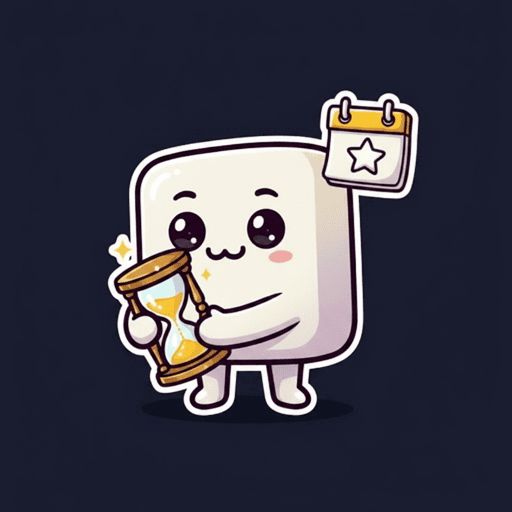
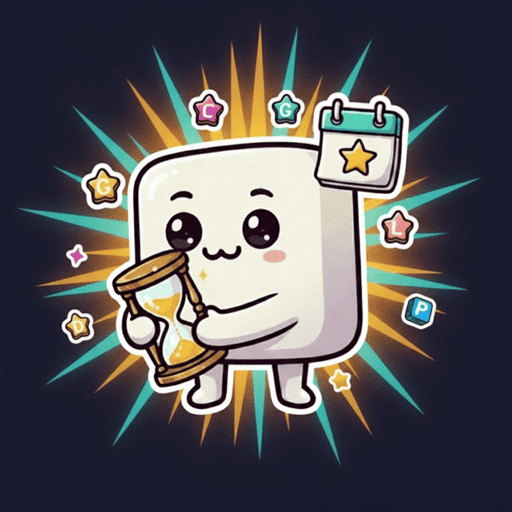
feat(landing): recolor blast/arena/daily cubes (MP=2 fighters), colored badges + blur LQIP; drop blast v1/v2 cubes
- Regen blast (vivid explosion), arena (two mascots dueling: pink vs cyan
  knight, crossed glowing swords), daily (gold sunburst + glowing hourglass)
  cube mascots — far more colorful than the washed-out white originals.
- Tile-level color: NEW badges now wear the per-mode hue (was navy); ADMIN
  stays quiet navy. Daily card black shadow -> gold colored edge (it was the
  one tile reading "missing color").
- Image perf: shared 122-byte navy blur LQIP (CUBE_BLUR_DATA_URL) as
  placeholder="blur" on all cubes + daily; priority preload on the arena
  anchor only (above-fold), rest stay lazy.
- Remove admin-only blastClassic (V1) + blastV2 cube discovery tiles from the
  landing bento: modeMeta entries, type/FEATURED/admin-gate/render-cases/
  SP_MODES, gates + modeMeta tests, i18n x5, 2 PNG assets, orphan WordfallLogo
  import. Game route/engine /blast/v2 untouched — only the landing cube dropped.

tsc0 lint0; 49 landing/daily + 61 gates/modeMeta tests green; next build 185/185.

Changed region(s): [[0.0312, 0.0625, 0.9375, 0.9062], [0.6562, 0.875, 0.6875, 0.9062], [0.2812, 0.0938, 0.3125, 0.125]]

diff --git a/fe-next/components/landing/LandingChallengeCards.tsx b/fe-next/components/landing/LandingChallengeCards.tsx
@@ -3,7 +3,6 @@
 import { useState, useEffect } from 'react';
 import { Swords, BookOpen, Map, Bomb, Link2, Brain, Sparkles, ChevronDown, Layers, Building2, Hammer, Vault, PartyPopper, FlaskConical, ScrollText, Gavel, Grid3x3 } from 'lucide-react';
 import ModeCard from './ModeCard';
-import { WordfallLogo } from '@/components/blast/v2/WordfallLogo';
 import DailyChallengeBanner from '@/components/daily/DailyChallengeBanner';
 import DailyChallengeCube from '@/components/daily/DailyChallengeCube';
 import { shouldShowGuidance } from '@/utils/contextualGuidanceStorage';
@@ -60,8 +59,6 @@ type LandingCardKey =
   | 'brainGym'
   | 'wordCraft'
   | 'wordTower'
-  | 'blastClassic'
-  | 'blastV2'
   | 'wordForge'
   | 'wordVault'
   | 'party'
@@ -80,7 +77,7 @@ const DEFAULT_ORDER: LandingCardKey[] = ['daily', 'arena', 'blast', 'practice', 
  */
 const FEATURED_MODES = new Set<LandingCardKey>([
   'daily', 'arena', 'blast', 'practice',
-  'connections', 'brainGym', 'wordCraft', 'wordTower', 'blastClassic', 'blastV2',
+  'connections', 'brainGym', 'wordCraft', 'wordTower',
   'wordForge', 'wordVault',
   'party', 'wordAlchemy', 'shiritori', 'sealedBid', 'crossword',
 ]);
@@ -201,12 +198,6 @@ export function LandingChallengeCards({
     // WordCraft is public — territory surfaces on the hub for everyone.
     if (!next.includes('wordCraft')) next.push('wordCraft');
     if (isAdmin && !next.includes('wordTower')) next.push('wordTower');
-    // Blast Classic (legacy V1 engine) — admin-only card so both V1 + V2 (the
-    // public 'blast' card) are reachable. /blast?v2=off opts into the V1 engine.
-    if (isAdmin && !next.includes('blastClassic')) next.push('blastClassic');
-    // Blast V2 (new SP engine) — admin-only card, its own standalone route.
-    // Public 'blast' stays V1; /blast/v2 is a separate mode, not a toggle.
-    if (isAdmin && !next.includes('blastV2')) next.push('blastV2');
     // Admin-only dev previews of modes not yet surfaced on the public hub.
     if (isAdmin && !next.includes('wordForge')) next.push('wordForge');
     if (isAdmin && !next.includes('wordVault')) next.push('wordVault');
@@ -311,36 +302,6 @@ export function LandingChallengeCards({
               variant="orange"
               badge="NEW"
               onClick={() => { trackModeSelected('blast', 'home'); trackLandingCtaClick('mode_card', { mode: 'blast', variant: 'orange' }); }}
-            />
-          </div>
-        );
-
-      case 'blastClassic':
-        return (
-          <div key="blastClassic" className="w-full h-full animate-[fadeInUp_0.4s_ease-out_both]" style={style}>
-            <ModeCard
-              title={t('landing.blastClassic')}
-              description={t('landing.blastClassicDesc')}
-              href={`/${language}/blast?v2=off`}
-              icon={<Bomb className="w-6 h-6" />}
-              variant="orange"
-              badge="V1"
-              onClick={() => { trackLandingCtaClick('mode_card', { mode: 'blastClassic', variant: 'orange' }); }}
-            />
-          </div>
-        );
-
-      case 'blastV2':
-        return (
-          <div key="blastV2" className="w-full h-full animate-[fadeInUp_0.4s_ease-out_both]" style={style}>
-            <ModeCard
-              title={t('landing.blastV2')}
-              description={t('landing.blastV2Desc')}
-              href={`/${language}/blast/v2`}
-              icon={<WordfallLogo size={26} color="#fff" />}
-              variant="purple"
-              badge="NEW"
-              onClick={() => { trackLandingCtaClick('mode_card', { mode: 'blastV2', variant: 'purple' }); }}
             />
           </div>
         );
@@ -537,7 +498,7 @@ export function LandingChallengeCards({
   };
 
   const MP_MODES = new Set<LandingCardKey>(['arena']);
-  const SP_MODES = new Set<LandingCardKey>(['practice', 'blast', 'adventure', 'connections', 'brainGym', 'wordCraft', 'wordTower', 'blastClassic', 'blastV2', 'wordForge', 'wordVault', 'party', 'wordAlchemy', 'shiritori', 'sealedBid', 'crossword']);
+  const SP_MODES = new Set<LandingCardKey>(['practice', 'blast', 'adventure', 'connections', 'brainGym', 'wordCraft', 'wordTower', 'wordForge', 'wordVault', 'party', 'wordAlchemy', 'shiritori', 'sealedBid', 'crossword']);
   // Newcomer-essential modes — always visible above the fold. Everything else
   // collapses into a "More Game Modes" expander to reduce choice paralysis
   // without removing the cards from the DOM (preserves SEO + AI-crawler links).

diff --git a/fe-next/components/landing/__tests__/LandingChallengeCards.gates.test.tsx b/fe-next/components/landing/__tests__/LandingChallengeCards.gates.test.tsx
@@ -225,45 +225,9 @@ describe('LandingChallengeCards — Shiritori admin dev-preview gate', () => {
   });
 });
 
-describe('LandingChallengeCards — Blast Classic admin gate', () => {
-  it('does NOT render the Blast Classic card for a non-admin', () => {
-    mockIsAdmin.mockReturnValue(false);
-    mockGamesCompleted.mockReturnValue(10);
-    render(<LandingChallengeCards {...baseProps} />);
-    expect(screen.queryByTestId('mode-landing.blastClassic')).toBeNull();
-  });
-
-  it('renders the Blast Classic V1 card for an admin with ?v2=off href', () => {
-    mockIsAdmin.mockReturnValue(true);
-    mockGamesCompleted.mockReturnValue(10);
-    render(<LandingChallengeCards {...baseProps} />);
-    const card = screen.getByTestId('mode-landing.blastClassic');
-    expect(card).toBeInTheDocument();
-    expect(card.getAttribute('data-href')).toBe('/en/blast?v2=off');
-  });
-});
-
-describe('LandingChallengeCards — Blast V2 admin gate', () => {
-  it('does NOT render the Blast V2 card for a non-admin', () => {
-    mockIsAdmin.mockReturnValue(false);
-    mockGamesCompleted.mockReturnValue(10);
-    render(<LandingChallengeCards {...baseProps} />);
-    expect(screen.queryByTestId('mode-landing.blastV2')).toBeNull();
-  });
-
-  it('renders the Blast V2 card for an admin linking to the standalone /blast/v2 route', () => {
-    mockIsAdmin.mockReturnValue(true);
-    mockGamesCompleted.mockReturnValue(10);
-    render(<LandingChallengeCards {...baseProps} />);
-    const card = screen.getByTestId('mode-landing.blastV2');
-    expect(card).toBeInTheDocument();
-    // Separate mode, not a ?v2=on toggle on the V1 /blast page.
-    expect(card.getAttribute('data-href')).toBe('/en/blast/v2');
-  });
-});
 
 describe('LandingChallengeCards — full admin dev-preview roster', () => {
-  it('renders ALL 9 admin-gated dev preview cards for a post-newbie admin', () => {
+  it('renders ALL 7 admin-gated dev preview cards for a post-newbie admin', () => {
     mockIsAdmin.mockReturnValue(true);
     mockUserEmail.mockReturnValue('admin@example.com');
     // Past newbie + first-timer + newcomer-by-games gates → no collapse expander,
@@ -276,8 +240,6 @@ describe('LandingChallengeCards — full admin dev-preview roster', () => {
       // WordCraft consolidated to ONE public card; Cards/Gems are URL sub-modes
       // (gateWordCraftMode), not hub cards — so none appear in this admin roster.
       'mode-wordTower.cardTitle',          // Word Tower
-      'mode-landing.blastClassic',         // Blast Classic V1
-      'mode-landing.blastV2',              // Blast V2 (/blast/v2)
       'mode-landing.wordForgeMode',        // Word Forge
       'mode-landing.wordVaultMode',        // Word Vault
       'mode-landing.partyMode',            // Party Games
@@ -299,8 +261,6 @@ describe('LandingChallengeCards — full admin dev-preview roster', () => {
     render(<LandingChallengeCards {...baseProps} />);
     const adminOnly = [
       'mode-wordTower.cardTitle',
-      'mode-landing.blastClassic',
-      'mode-landing.blastV2',
       'mode-landing.wordForgeMode',
       'mode-landing.wordVaultMode',
       'mode-landing.partyMode',

diff --git a/fe-next/components/landing/LandingModeCubes.tsx b/fe-next/components/landing/LandingModeCubes.tsx
@@ -20,7 +20,7 @@ import Link from 'next/link';
 import { ArrowRight, ArrowLeft, Lock, ChevronDown, Sparkles } from 'lucide-react';
 import { cn } from '@/lib/utils';
 import { useLanguage } from '@/contexts/LanguageContext';
-import type { ModeCubeModel, ModeCubeVariant } from '@/lib/landing/modeMeta';
+import { CUBE_BLUR_DATA_URL, type ModeCubeModel, type ModeCubeVariant } from '@/lib/landing/modeMeta';
 
 interface VariantStyle {
   /** solid colour fill (anchor) */
@@ -51,9 +51,18 @@ const VARIANT: Record<ModeCubeVariant, VariantStyle> = {
   blue:   { fill: 'bg-blue-500',   ink: 'text-neo-white', chip: 'bg-blue-500',   chipInk: 'text-neo-white', restShadow: 'shadow-hard-blue',   shadow: 'group-hover:shadow-hard-blue',   ring: 'focus-visible:ring-blue-400' },
 };
 
-function Badge({ label }: { label: string }) {
+// Badge wears the mode colour (not navy) so every flagged cube pops a chip of
+// its own hue — a contained, on-brand splash of colour on the bento beyond the
+// art itself. ADMIN previews stay quiet navy so they don't shout over public modes.
+function Badge({ label, chip, chipInk }: { label: string; chip: string; chipInk: string }) {
+  const quiet = label.toUpperCase() === 'ADMIN';
   return (
-    <span className="absolute top-1.5 end-1.5 z-10 rounded-full border-2 border-black bg-neo-navy px-2 py-0.5 font-neo-display text-[0.6rem] font-black uppercase leading-none tracking-wide text-neo-white shadow-hard-sm">
+    <span
+      className={cn(
+        'absolute top-1.5 end-1.5 z-10 rounded-full border-2 border-black px-2 py-0.5 font-neo-display text-[0.6rem] font-black uppercase leading-none tracking-wide shadow-hard-sm',
+        quiet ? 'bg-neo-navy text-neo-white' : cn(chip, chipInk),
+      )}
+    >
       {label}
     </span>
   );
@@ -150,6 +159,12 @@ function Cube({ model, index, anchor = false, bigAnchor = true }: CubeProps) {
             src={model.genIcon as string}
             alt=""
             fill
+            // The anchor (arena) is above the fold → eager-preload it; the rest of
+            // the bento stays lazy. A shared navy LQIP blurs up seamlessly (same
+            // navy as the tile) so cubes never pop in from blank.
+            priority={anchor}
+            placeholder="blur"
+            blurDataURL={CUBE_BLUR_DATA_URL}
             sizes={anchor ? '(max-width: 768px) 100vw, 50vw' : '(max-width: 768px) 50vw, 25vw'}
             onError={() => setImgFailed(true)}
             className={cn(
@@ -177,7 +192,7 @@ function Cube({ model, index, anchor = false, bigAnchor = true }: CubeProps) {
         )}
       />
 
-      {model.badge && <Badge label={model.badge} />}
+      {model.badge && <Badge label={model.badge} chip={v.chip} chipInk={v.chipInk} />}
       {locked && <LockOverlay message={model.lockedMessage} />}
 
       {/* ---- content layer ---- */}

diff --git a/fe-next/components/daily/DailyChallengeCube.tsx b/fe-next/components/daily/DailyChallengeCube.tsx
@@ -8,6 +8,7 @@ import { cn } from '@/lib/utils';
 import { useLanguage } from '@/contexts/LanguageContext';
 import { trackLandingCtaClick } from '@/utils/growthTracking';
 import { useDailyChallengeStats, type PreloadedDailyStats } from '@/hooks/useDailyChallengeStats';
+import { CUBE_BLUR_DATA_URL } from '@/lib/landing/modeMeta';
 
 interface DailyChallengeCubeProps {
   /** Pre-loaded daily stats from the landing page to avoid a duplicate fetch. */
@@ -40,7 +41,11 @@ const DailyChallengeCube: React.FC<DailyChallengeCubeProps> = ({ preloadedStats 
       onClick={() => trackLandingCtaClick('daily_banner', { mode: 'daily', hasPlayed })}
       aria-label={`${t('daily.badge')} #${puzzleNumber}`}
       className={cn(
-        'cube-reveal group relative flex min-h-[112px] w-full items-stretch overflow-hidden rounded-neo border-neo-thick border-black bg-neo-navy shadow-hard transition-transform duration-150 sm:min-h-[132px]',
+        // Gold (neo-yellow) colour-coded edge AT REST — daily was the one tile
+        // with a plain black shadow, so it read as "missing colour". The gold edge
+        // (an allowed celebration accent for daily) gives it the same colour-coded
+        // signal the mode cubes carry, plus the warm sunburst mascot art.
+        'cube-reveal group relative flex min-h-[112px] w-full items-stretch overflow-hidden rounded-neo border-neo-thick border-black bg-neo-navy shadow-hard-yellow transition-transform duration-150 sm:min-h-[132px]',
         'hover:-translate-x-0.5 hover:-translate-y-0.5 hover:shadow-hard-lg',
         'focus-visible:-translate-x-0.5 focus-visible:-translate-y-0.5',
         'active:translate-x-0 active:translate-y-0 active:shadow-hard-pressed',
@@ -55,6 +60,8 @@ const DailyChallengeCube: React.FC<DailyChallengeCubeProps> = ({ preloadedStats 
           alt=""
           fill
           priority
+          placeholder="blur"
+          blurDataURL={CUBE_BLUR_DATA_URL}
           sizes="(max-width: 768px) 45vw, 180px"
           className="object-contain object-center transition-transform duration-200 motion-safe:group-hover:scale-[1.06]"
         />

diff --git a/fe-next/lib/landing/modeMeta.ts b/fe-next/lib/landing/modeMeta.ts
@@ -19,6 +19,15 @@ import {
 export const CUBE_VARIANTS = ['pink', 'cyan', 'purple', 'orange', 'lime', 'blue'] as const;
 export type ModeCubeVariant = (typeof CUBE_VARIANTS)[number];
 
+/**
+ * Shared LQIP blur for every cube `next/image`. A 4×4 solid `neo-navy` (#1a1a2e)
+ * PNG — the SAME colour every cube tile already paints — so the blur-up is
+ * seamless (tile shows instantly, the mascot art fades in over an identical
+ * navy) and costs one inline 122-byte data URI instead of 16 per-image LQIPs.
+ */
+export const CUBE_BLUR_DATA_URL =
[1 lines of base64/hex data omitted]
+
 export interface ModeMetaEntry {
   /** i18n key for the cube title */
   readonly titleKey: string;
@@ -74,14 +83,6 @@ export const MODE_META: Record<string, ModeMetaEntry> = {
   },
   // Admin-only dev previews — also carry generated cube icons so the "+ More"
   // grid is full-bleed art across the board. Colours spread to avoid clusters.
-  blastClassic: {
-    titleKey: 'landing.blastClassic', descKey: 'landing.blastClassicDesc', path: '/blast?v2=off',
-    Icon: Bomb, variant: 'orange', badge: 'V1', genIcon: '/modes/cubes/blastclassic.png',
-  },
-  blastV2: {
-    titleKey: 'landing.blastV2', descKey: 'landing.blastV2Desc', path: '/blast/v2',
-    Icon: Bomb, variant: 'purple', badge: 'V2', genIcon: '/modes/cubes/blastv2.png',
-  },
   wordTower: {
     titleKey: 'wordTower.cardTitle', descKey: 'wordTower.cardDesc', path: '/word-tower',
     Icon: Building2, variant: 'lime', badge: 'ADMIN', modeImage: '/modes/word-tower.png', genIcon: '/modes/cubes/wordtower.png',

diff --git a/fe-next/translations/ja.js b/fe-next/translations/ja.js
@@ -5150,10 +5150,6 @@ const ja = {
     "adventureModeDesc": "10の世界で100レベル",
     "blastMode": "ブラストモード",
     "blastModeDesc": "ボードをクリアしよう！",
-    "blastClassic": "ブラスト クラシック",
-    "blastClassicDesc": "オリジナルのV1エンジン",
-    "blastV2": "ワードフォール",
-    "blastV2Desc": "落として、つなげて、ボードをクリア",
     "wordChainMode": "ワードチェーン",
     "wordChainModeDesc": "1つの言葉で2つの言葉をつなごう",
     "wordForgeMode": "ワードフォージ",

diff --git a/fe-next/translations/he.js b/fe-next/translations/he.js
@@ -5262,10 +5262,6 @@ const he = {
     "adventureModeDesc": "100 שלבים ב-10 עולמות",
     "blastMode": "מצב פיצוץ",
     "blastModeDesc": "נקו את הלוח!",
-    "blastClassic": "בלאסט קלאסי",
-    "blastClassicDesc": "מנוע V1 המקורי",
-    "blastV2": "וורדפול",
-    "blastV2Desc": "הפילו אותיות, צרו שרשרת ונקו את הלוח",
     "wordChainMode": "ראש זנב",
     "wordChainModeDesc": "חברו שתי מילים באמצעות מילה אחת",
     "wordForgeMode": "מסדת המילים",

diff --git a/fe-next/translations/es.js b/fe-next/translations/es.js
@@ -5184,10 +5184,6 @@ const es = {
     "adventureModeDesc": "100 niveles en 10 mundos",
     "blastMode": "Modo Blast",
     "blastModeDesc": "¡Limpia el tablero!",
-    "blastClassic": "Blast Clásico",
-    "blastClassicDesc": "El motor original V1",
-    "blastV2": "Wordfall",
-    "blastV2Desc": "Suelta, encadena y limpia el tablero",
     "wordChainMode": "Cadena de Palabras",
     "wordChainModeDesc": "Conecta dos palabras con una",
     "wordForgeMode": "Forja de Palabras",

diff --git a/fe-next/translations/en.js b/fe-next/translations/en.js
@@ -5192,10 +5192,6 @@ const en = {
     "adventureModeDesc": "100 levels across 10 worlds",
     "blastMode": "Blast Mode",
     "blastModeDesc": "Clear the board!",
-    "blastClassic": "Blast Classic",
-    "blastClassicDesc": "The original V1 engine",
-    "blastV2": "Wordfall",
-    "blastV2Desc": "Drop, chain, and clear the board",
     "wordChainMode": "Word Chain",
     "wordChainModeDesc": "Bridge two words with one",
     "wordForgeMode": "Word Forge",

diff --git a/fe-next/translations/sv.js b/fe-next/translations/sv.js
@@ -5237,10 +5237,6 @@ const sv = {
     "adventureModeDesc": "100 nivåer i 10 världar",
     "blastMode": "Blast-läge",
     "blastModeDesc": "Rensa brädet!",
-    "blastClassic": "Blast Classic",
-    "blastClassicDesc": "Den ursprungliga V1-motorn",
-    "blastV2": "Wordfall",
-    "blastV2Desc": "Släpp, kedja och rensa brädet",
     "wordChainMode": "Ordkedja",
     "wordChainModeDesc": "Länka två ord med ett ord",
     "wordForgeMode": "Ordsmedjan",

diff --git a/fe-next/lib/landing/__tests__/modeMeta.test.ts b/fe-next/lib/landing/__tests__/modeMeta.test.ts
@@ -57,9 +57,6 @@ describe('MODE_META — parity with control renderCard', () => {
       expect(modeRoute('connections', 'en')).toBe('/en/connections/play');
     });
 
-    it('preserves query strings in the path (blastClassic opts into v1)', () => {
-      expect(modeRoute('blastClassic', 'en')).toBe('/en/blast?v2=off');
-    });
 
     it('returns null for an unknown key', () => {
       expect(modeRoute('nope', 'en')).toBeNull();
